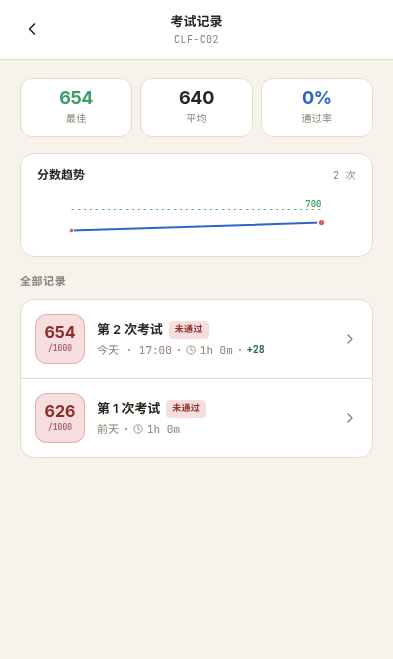
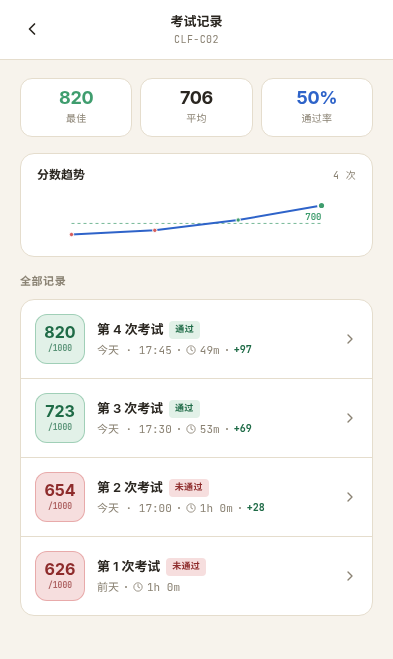
Update README mock exam screenshot data

diff --git a/scripts/readme-screenshots/fixtures.ts b/scripts/readme-screenshots/fixtures.ts
@@ -274,6 +274,28 @@ function buildMockExamState(questions: readonly Question[]) {
     questions: questions.map((question, index) => toMockQuestion(question, index, 'submitted')),
   }
   const submitted = submitAttempt(submittedAttempt, README_SCREENSHOT_FIXED_NOW - 3_600_000)
+  const passedSubmitted = submitAttempt(
+    {
+      ...submittedAttempt,
+      id: 'readme-clf-c02-passed-submitted',
+      startedAt: README_SCREENSHOT_FIXED_NOW - 5_400_000,
+      elapsedSeconds: 3_180,
+      updatedAt: README_SCREENSHOT_FIXED_NOW - 1_800_000,
+      questions: questions.map((question, index) => toMockQuestion(question, index, 'passed')),
+    },
+    README_SCREENSHOT_FIXED_NOW - 1_800_000,
+  )
+  const highPassedSubmitted = submitAttempt(
+    {
+      ...submittedAttempt,
+      id: 'readme-clf-c02-high-passed-submitted',
+      startedAt: README_SCREENSHOT_FIXED_NOW - 4_800_000,
+      elapsedSeconds: 2_940,
+      updatedAt: README_SCREENSHOT_FIXED_NOW - 900_000,
+      questions: questions.map((question, index) => toMockQuestion(question, index, 'high-passed')),
+    },
+    README_SCREENSHOT_FIXED_NOW - 900_000,
+  )
   const olderSubmitted = submitAttempt(
     {
       ...submittedAttempt,
@@ -293,6 +315,8 @@ function buildMockExamState(questions: readonly Question[]) {
       submittedAttempts: {
         'CLF-C02': {
           [submitted.id]: submitted,
+          [passedSubmitted.id]: passedSubmitted,
+          [highPassedSubmitted.id]: highPassedSubmitted,
           [olderSubmitted.id]: olderSubmitted,
         },
       },
@@ -306,6 +330,8 @@ function buildMockExamState(questions: readonly Question[]) {
           submittedAttempts: {
             'CLF-C02': {
               [submitted.id]: submitted,
+              [passedSubmitted.id]: passedSubmitted,
+              [highPassedSubmitted.id]: highPassedSubmitted,
               [olderSubmitted.id]: olderSubmitted,
             },
           },
@@ -321,12 +347,24 @@ function buildMockExamState(questions: readonly Question[]) {
 function toMockQuestion(
   question: Question,
   index: number,
-  variant: 'draft' | 'submitted' | 'older-submitted',
+  variant: 'draft' | 'submitted' | 'passed' | 'high-passed' | 'older-submitted',
 ): MockExamQuestionSnapshot {
   const shouldAnswer =
-    variant === 'draft' ? index < 11 : variant === 'submitted' ? index < 58 : index < 51
+    variant === 'draft'
+      ? index < 11
+      : variant === 'submitted'
+        ? index < 58
+        : variant === 'older-submitted'
+          ? index < 51
+          : true
   const shouldBeCorrect =
-    variant === 'older-submitted' ? index % 4 !== 0 : index % 5 !== 0 && index < 50
+    variant === 'older-submitted'
+      ? index % 4 !== 0
+      : variant === 'passed'
+        ? index < 45
+        : variant === 'high-passed'
+          ? index < 52
+          : index % 5 !== 0 && index < 50
   const userPicks = shouldAnswer && shouldBeCorrect ? question.correct_answer : wrongPicks(question)
 
   return {

diff --git a/scripts/readme-screenshots/capture.ts b/scripts/readme-screenshots/capture.ts
@@ -114,7 +114,7 @@ async function captureEntry(
     })
     await page.waitForLoadState('networkidle', { timeout: 10_000 }).catch(() => undefined)
     await page.waitForTimeout(250)
-    await prepareEntryForCapture(page, entry)
+    await prepareEntryForCapture(page, entry, baseUrl)
     await page.screenshot({
       path: path.join(README_SCREENSHOT_ASSET_DIR, entry.output),
       scale: 'css',
@@ -128,7 +128,12 @@ async function captureEntry(
 async function prepareEntryForCapture(
   page: Awaited<ReturnType<BrowserContext['newPage']>>,
   entry: ReadmeScreenshotEntry,
+  baseUrl: string,
 ) {
+  if (entry.path === '/stats') {
+    await ensureStatsEntryReady(page, baseUrl, entry)
+  }
+
   if (entry.capture?.scrollTo !== 'explanation') return
 
   const explanation = page
@@ -141,6 +146,33 @@ async function prepareEntryForCapture(
     window.scrollBy(0, -72)
   })
   await page.waitForTimeout(100)
+}
+
+async function ensureStatsEntryReady(
+  page: Awaited<ReturnType<BrowserContext['newPage']>>,
+  baseUrl: string,
+  entry: ReadmeScreenshotEntry,
+) {
+  const heading = page.getByRole('heading', { name: entry.locale === 'zh' ? '统计' : 'Stats' })
+
+  for (let attempt = 0; attempt < 3; attempt += 1) {
+    if (new URL(page.url()).pathname !== '/stats') {
+      const statsLink = page.locator('a[href="/stats"]').first()
+      if (await statsLink.isVisible().catch(() => false)) {
+        await statsLink.click()
+      } else {
+        await page.goto(new URL('/', baseUrl).toString(), { waitUntil: 'domcontentloaded' })
+        await page.locator('a[href="/stats"]').waitFor({ state: 'visible' })
+        await page.locator('a[href="/stats"]').first().click()
+      }
+      await page.waitForURL(new URL('/stats', baseUrl).toString(), { timeout: 5_000 })
+    }
+
+    if (await heading.isVisible().catch(() => false)) return
+    await page.waitForTimeout(150)
+  }
+
+  throw new Error(`Stats README screenshot did not settle on /stats for ${entry.output}`)
 }
 
 async function gotoEntryPath(

diff --git a/tests/readme-screenshot-fixtures.test.ts b/tests/readme-screenshot-fixtures.test.ts
@@ -45,6 +45,17 @@ describe('README screenshot fixture state', () => {
     expect(
       mockExam.attempts['readme-clf-c02-draft'].questions.map((q: { qid: number }) => q.qid),
     ).toEqual(README_SCREENSHOT_REQUIRED_CLF_QIDS)
+    const submittedAttempts = Object.values(mockExam.submittedAttempts['CLF-C02']) as Array<{
+      summary: { passed: boolean; score: number }
+      submittedAt: number
+    }>
+    expect(submittedAttempts).toHaveLength(4)
+    expect(
+      submittedAttempts
+        .filter((attempt) => attempt.summary.passed)
+        .map((attempt) => attempt.summary.score)
+        .sort((a, b) => a - b),
+    ).toEqual([723, 820])
     expect(mockExam.submittedAttempts['CLF-C02']['readme-clf-c02-submitted'].submittedAt).toBe(
       README_SCREENSHOT_FIXED_NOW - 3_600_000,
     )
